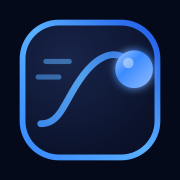
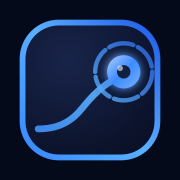
brand: per-product Arc Slab variants (boing.observer)

Changed region(s): [[0.1944, 0.2222, 0.8611, 0.75], [0.2222, 0.3056, 0.4167, 0.3611], [0.1944, 0.3889, 0.3611, 0.4444]]

diff --git a/src/components/logo-mark.tsx b/src/components/logo-mark.tsx
@@ -3,9 +3,9 @@ import { useId, type SVGProps } from "react";
 type LogoMarkProps = SVGProps<SVGSVGElement>;
 
 /**
- * Boing "Arc Slab" mark: the shared Boing recovery arc + orb on a rounded slab, in Boing blue
- * (BRAND.md accent #3B8CFF), with speed streaks. Identical across Boing Network, Express,
- * Observer and Finance; only the wordmark changes per product.
+ * Boing Observer mark: the Boing "Arc Slab" family (rounded slab, recovery arc, glowing orb) in its
+ * Observer variant: a flatter scan arc ending in an orb with a pupil and a segmented aperture ring,
+ * so it reads as "observing". Each product has its own variant (see BRAND.md).
  * Source of truth for rasters: public/brand/boing-observer-mark.svg (keep geometry in sync).
  */
 export function LogoMark({ className, ...props }: LogoMarkProps) {
@@ -48,16 +48,26 @@ export function LogoMark({ className, ...props }: LogoMarkProps) {
         </filter>
       </defs>
       <rect x="6" y="6" width="52" height="52" rx="14" fill={`url(#${slab})`} stroke={`url(#${frame})`} strokeWidth="2.25" />
-      <path d="M15 21h9M12 27h8" stroke={`url(#${frame})`} strokeWidth="2" strokeLinecap="round" opacity="0.55" />
       <path
-        d="M13 45 C 19 45 21 40 25 33 C 29 26 33 21 38 19 C 43 17 47 20 49 24"
+        d="M12 47 C 20 47 25 44 29 39 C 33 34 37 30 43 27"
         stroke={`url(#${frame})`}
         strokeWidth="2.6"
         strokeLinecap="round"
         opacity="0.9"
       />
-      <circle cx="49" cy="24" r="7.25" fill={`url(#${orb})`} filter={`url(#${glow})`} />
-      <circle cx="46.8" cy="21.6" r="2" fill="#F0F4F8" opacity="0.45" />
+      <circle
+        cx="45"
+        cy="25"
+        r="11"
+        stroke={`url(#${frame})`}
+        strokeWidth="1.7"
+        strokeLinecap="round"
+        strokeDasharray="9.6 1.9"
+        opacity="0.8"
+      />
+      <circle cx="45" cy="25" r="6.4" fill={`url(#${orb})`} filter={`url(#${glow})`} />
+      <circle cx="45" cy="25" r="2.6" fill="#0A1128" opacity="0.88" />
+      <circle cx="43.6" cy="23.6" r="1.1" fill="#F0F4F8" opacity="0.6" />
     </svg>
   );
 }
